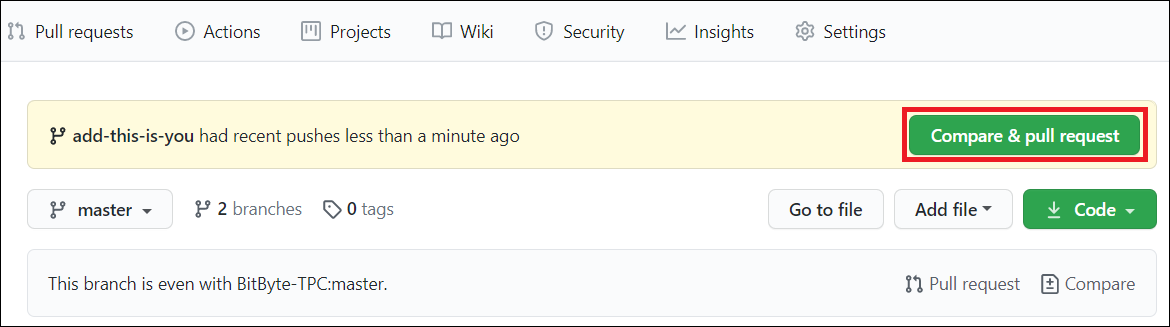
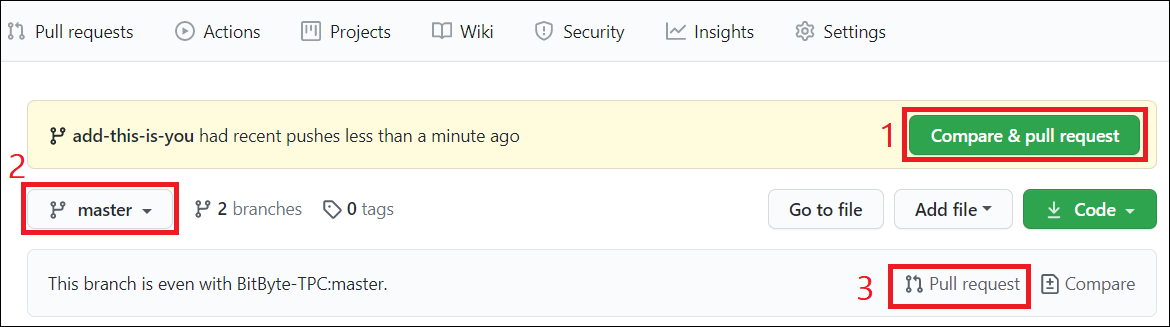
Update submit-your-changes-for -review section in readme

Changed region(s): [[0.0, 0.4587, 0.1538, 0.7339], [0.7385, 0.7951, 0.8923, 0.948], [0.7385, 0.367, 0.7692, 0.4281]]

diff --git a/README.md b/README.md
@@ -215,15 +215,34 @@ Hooray!! You've successfully pushed your changes to GitHub. :rocket:
 
 ## Submit your changes for review
 
-If you go to your repository on GitHub, you'll see a  `Compare & pull request` button. Click on that button.
+Now, it's time to create a Pull Request.
+
+Pull Request is a way to request the maintainers of the original repository of the project, to merge your changes into their main project and make them live. :rocket:
+
+If they like your changes, they'll merge them otherwise they'll send you a detailed review on, at what places you need to make changes for them to be able to merge your code.
+
+To create a Pull Request, you go to your forked repository on GitHub, you'll see a  `Compare & pull request` button, as shown in the screenshot[1]. Click on that button.
 
 <img style="float: right;" src="assets/compare-and-pull.png" alt="create a pull request" />
 
-Now submit the pull request.
+If you don't see the above button, don't worry! Everything is fine. The button automatically disappears after some time.
+- To create a Pull Request in this case, click on the dropdown menu, as shown in the screenshot[2].
+- From there, select the branch on which you made your changes.
+- Then, click on the `Pull Request` link, as shown in the screenshot[3].
+
+And you are good to go.
+
+Now, write the short title of your PR along with a small description on what changes you made in this PR. It helps reviewers to easily review your work and give you the feedback more quickly.
+
+Now, submit the pull request and wait for reviewers to review you work and give you appropriate feedback.
 
 <img style="float: right;" src="assets/submit-pull-request.png" alt="submit pull request" />
 
-Soon I'll be merging all your changes into the master branch of this project. You will get a notification email once the changes have been merged.
+Yayyyy!!! :tada: :tada: You have successfully completed all the necessary steps to make your first contribution to Open Source. A huge congratulations to you.
+
+For this repository, if the contribution made by you is good and you pass all tests, `github-actions` will automatically merge your changes to the main repository.
+
+Otherwise, it will show you a :x: sign against your commit. On clicking on that and then on `Details`, you may find the error which occured while testing your changes and then fix that by making the new commit in your branch and pushing your changes again. You don't need to open a Pull Request again, it will automatically append your changes in the existing Pull Request as from one branch, only one Pull Request can be opened.
 
 ## Where to go from here?
 
